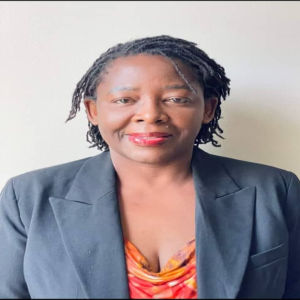
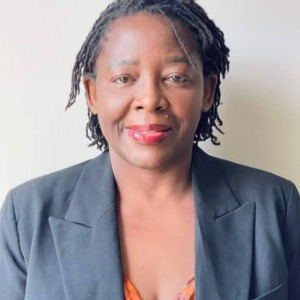
Included Images for Francina and Denny

diff --git a/organizers/index.html b/organizers/index.html
@@ -106,7 +106,7 @@ title: "blank"
                         </div>
 
                         <div class="col-md-4 text-center" style="margin-bottom: 30px;">
-                            <img src="/assets/img/organisers/avatar_female.jpg" alt="Francina Makondo" class="img-circle" style="width: 120px; height: 120px;">
+                            <img src="/assets/img/organisers/etd24-organisers-francina_makondo.jpg" alt="Francina Makondo" class="img-circle" style="width: 120px; height: 120px;">
                             <h4 style="margin-bottom: 0px;"><a href="" style="color:#555;" target="_blank"><b>Francina Makondo</b></a></h4>
                             <p style="text-align: center;">University of Zambia</p>
                         </div>
@@ -119,8 +119,8 @@ title: "blank"
 
 
                         <div class="col-md-4 text-center" style="margin-bottom: 30px;">
-                            <img src="/assets/img/organisers/avatar_male.jpg" alt="Denny Nsokolo" class="img-circle" style="width: 120px; height: 120px;">
-                            <h4 style="margin-bottom: 0px;"><a href="" style="color:#555;" target="_blank"><b>Denny Nsokolo</b></a></h4>
+                            <img src="/assets/img/organisers/etd24-organisers-denny_nsokolo.jpg" alt="Denny Nsokolo" class="img-circle" style="width: 120px; height: 120px;">
+                            <h4 style="margin-bottom: 0px;"><a href="https://www.linkedin.com/in/denny-nsokolo-ma-3b65b251?trk=contact-info" style="color:#555;" target="_blank"><b>Denny Nsokolo</b></a></h4>
                             <p style="text-align: center;">Higher Education Authority</p>
                         </div>
 

diff --git a/_site/organizers/index.html b/_site/organizers/index.html
@@ -215,7 +215,7 @@
                         </div>
 
                         <div class="col-md-4 text-center" style="margin-bottom: 30px;">
-                            <img src="/assets/img/organisers/avatar_female.jpg" alt="Francina Makondo" class="img-circle" style="width: 120px; height: 120px;">
+                            <img src="/assets/img/organisers/etd24-organisers-francina_makondo.jpg" alt="Francina Makondo" class="img-circle" style="width: 120px; height: 120px;">
                             <h4 style="margin-bottom: 0px;"><a href="" style="color:#555;" target="_blank"><b>Francina Makondo</b></a></h4>
                             <p style="text-align: center;">University of Zambia</p>
                         </div>
@@ -228,8 +228,8 @@
 
 
                         <div class="col-md-4 text-center" style="margin-bottom: 30px;">
-                            <img src="/assets/img/organisers/avatar_male.jpg" alt="Denny Nsokolo" class="img-circle" style="width: 120px; height: 120px;">
-                            <h4 style="margin-bottom: 0px;"><a href="" style="color:#555;" target="_blank"><b>Denny Nsokolo</b></a></h4>
+                            <img src="/assets/img/organisers/etd24-organisers-denny_nsokolo.jpg" alt="Denny Nsokolo" class="img-circle" style="width: 120px; height: 120px;">
+                            <h4 style="margin-bottom: 0px;"><a href="https://www.linkedin.com/in/denny-nsokolo-ma-3b65b251?trk=contact-info" style="color:#555;" target="_blank"><b>Denny Nsokolo</b></a></h4>
                             <p style="text-align: center;">Higher Education Authority</p>
                         </div>
 
